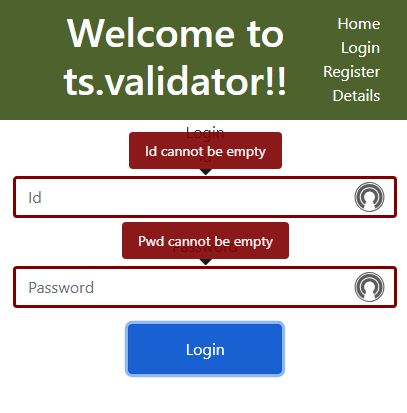
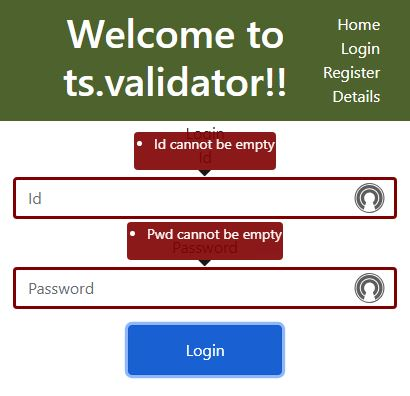
made the error display into a bulleted list.

Changed region(s): [[0.0, 0.0303, 1.0, 0.9697], [0.1474, 0.1515, 0.7076, 0.2424], [0.1474, 0.0303, 0.7076, 0.1212]]

diff --git a/src/app/components/register/register.component.html b/src/app/components/register/register.component.html
@@ -5,11 +5,12 @@
     <div class="panel-body">
         <form>
             <div class="form-group">
-                <ng-template #tipContent>                        
-                        <div class="tooltip-inner"
-                            *ngFor="let error of validationResult?.IdentifierStartsWith('Name')">
+                <ng-template #tipContent>
+                    <ul class="tooltip-inner">                        
+                        <li *ngFor="let error of validationResult?.IdentifierStartsWith('Name')">
                             {{error.Message}}
-                        </div>                    
+                        </li>                    
+                    </ul>                        
                 </ng-template>
                 <input 
                         type="text" 
@@ -24,11 +25,11 @@
             </div>
             <div class="form-group"> 
                 <ng-template #tipContent1>
-                    
-                        <div class="tooltip-inner" 
-                            *ngFor="let error of validationResult.IdentifierStartsWith('CreditCardNo')">
+                    <ul class="tooltip-inner">
+                        <li *ngFor="let error of validationResult?.IdentifierStartsWith('CreditCardNo')">
                             {{error.Message}}
-                        </div>                    
+                        </li>
+                    </ul>
                 </ng-template>                         
                 <input
                         type="text" 
@@ -43,10 +44,11 @@
             </div>            
             <div class="form-group"> 
                 <ng-template #tipContent2>                    
-                        <div class="tooltip-inner" 
-                            *ngFor="let error of validationResult.IdentifierStartsWith('Id')">
+                    <ul class="tooltip-inner">
+                        <li *ngFor="let error of validationResult?.IdentifierStartsWith('Id')">
                             {{error.Message}}
-                        </div>                    
+                        </li>
+                    </ul>                   
                 </ng-template>                     
                 <input 
                         type="text" 
@@ -61,10 +63,11 @@
             </div>            
             <div class="form-group">    
                 <ng-template #tipContent5>                    
-                        <div class="tooltip-inner"
-                            *ngFor="let error of validationResult.IdentifierStartsWith('Email')">
+                    <ul class="tooltip-inner">
+                        <li *ngFor="let error of validationResult?.IdentifierStartsWith('Email')">
                             {{error.Message}}
-                        </div>                    
+                        </li>
+                    </ul>                    
                 </ng-template>
                 <input 
                         type="text" 
@@ -79,10 +82,11 @@
             </div>
             <div class="form-group">      
                 <ng-template #tipContent3>                        
-                        <div class="tooltip-inner" 
-                            *ngFor="let error of validationResult.IdentifierStartsWith('Password')">
+                    <ul class="tooltip-inner">
+                        <li *ngFor="let error of validationResult?.IdentifierStartsWith('Password')">
                             {{error.Message}}
-                        </div>                    
+                        </li>
+                    </ul>                    
                 </ng-template>
                 <input 
                         type="password" 
@@ -97,10 +101,11 @@
             </div>
             <div class="form-group">      
                 <ng-template #tipContent4>                    
-                        <div class="tooltip-inner"                            
-                            *ngFor="let error of validationResult.IdentifierStartsWith('ConfirmPassword')">
+                    <ul class="tooltip-inner">
+                        <li *ngFor="let error of validationResult?.IdentifierStartsWith('ConfirmPassword')">
                             {{error.Message}}
-                        </div>                    
+                        </li>
+                    </ul>                    
                 </ng-template>
                 <input 
                         type="password" 

diff --git a/src/app/core/validate/validator.spec.ts b/src/app/core/validate/validator.spec.ts
@@ -27,6 +27,18 @@ class Employee {
     Code: string;
  }
 
+ /*TypeScript model*/
+ class Person {
+   Name: string;
+ }
+
+ var validatePersonRules = (validator: IValidator<Person>) : ValidationResult => {
+  return validator
+            .NotEmpty(m => m.Name, "Name cannot be empty")
+          .Exec();
+ };
+
+
  var validateEmployeeRules = (validator: IValidator<Employee>) : ValidationResult => {
     return validator                              
           .NotEmpty(m => m.Name, "Should not be empty", "Employee.Name.Empty")
@@ -104,6 +116,14 @@ describe('Validator Tests', () => {
     var validationResult = new Validator(model).Validate(validateEmployeeRules); 
     
     expect(validationResult.IsValid).toBeTruthy();
+
+    var person = new Person();
+    person.Name = "Shane";
+
+    validationResult = new Validator(person).Validate(validatePersonRules); 
+    
+    expect(validationResult.IsValid).toBeTruthy();
+
   });
 
   it('Accountant should have no validation errors - Sync', () => {    
@@ -167,7 +187,14 @@ describe('Validator Tests', () => {
 
     var validationResult = await new Validator(model).ValidateAsync(validateEmployeeRules); 
     
-    expect(validationResult.IsValid).toBeTruthy();    
+    expect(validationResult.IsValid).toBeTruthy();
+    
+    var person = new Person();
+    person.Name = "Shane";
+
+    validationResult = await new Validator(person).ValidateAsync(validatePersonRules); 
+    
+    expect(validationResult.IsValid).toBeTruthy();
   });
 
   it('Accountant should have no validation errors - Async', async () => {    

diff --git a/src/app/components/login/login.component.html b/src/app/components/login/login.component.html
@@ -7,10 +7,11 @@
         <div class="form-group">
             <label class="col-md-4">Id</label>
             <ng-template #tipContent>  
-                    <div class="tooltip-inner"
-                        *ngFor="let error of validationResult?.IdentifierStartsWith('Id')">
+                <ul class="tooltip-inner">
+                    <li *ngFor="let error of validationResult?.IdentifierStartsWith('Id')">
                         {{error.Message}}
-                    </div>                                
+                    </li>
+                </ul>                                
             </ng-template>
             <input 
                     type="text" 
@@ -26,10 +27,11 @@
         <div class="form-group">
             <label class="col-md-4">Password</label>
             <ng-template #tipContent1>                
-                    <div class="tooltip-inner"                         
-                        *ngFor="let error of validationResult?.IdentifierStartsWith('Pwd')" >
+                <ul class="tooltip-inner">
+                    <li *ngFor="let error of validationResult?.IdentifierStartsWith('Pwd')">
                         {{error.Message}}
-                    </div>                
+                    </li>
+                </ul>               
             </ng-template>              
             <input 
                     type="password" 

diff --git a/src/app/components/login/login.component.scss b/src/app/components/login/login.component.scss
@@ -9,11 +9,13 @@
 }
 
 ::ng-deep .tooltip-inner {
-    padding: .25rem .5rem;
+    padding: 0.5px 0.5px 0.02px 10px !important;
     color: #fff;
     text-align: center;
-    background-color: darkred !important;
+    background-color: darkred !important;    
     border-radius: .25rem;
+    max-width: 500px !important;
+    text-align: left;
 }
 
 ::ng-deep .tooltip {

diff --git a/src/app/components/register/register.component.scss b/src/app/components/register/register.component.scss
@@ -13,12 +13,13 @@ div.tooltip-inner {
 }
 
 ::ng-deep .tooltip-inner {
-    padding: .25rem .5rem;
+    padding: 0.5px 0.5px 0.02px 10px !important;
     color: #fff;
     text-align: center;
     background-color: darkred !important;    
     border-radius: .25rem;
     max-width: 500px !important;
+    text-align: left;    
 }
 
 ::ng-deep .tooltip {

diff --git a/README.md b/README.md
@@ -133,10 +133,11 @@ Register component:
         <div class="form-group">
             <label class="col-md-4">Id</label>
             <ng-template #tipContent>  
-                    <div class="tooltip-inner"
-                        *ngFor="let error of validationResult?.IdentifierStartsWith('Id')">
+                <ul class="tooltip-inner">
+                    <li *ngFor="let error of validationResult?.IdentifierStartsWith('Id')">
                         {{error.Message}}
-                    </div>                                
+                    </li>
+                </ul>                                
             </ng-template>
             <input 
                     type="text" 
